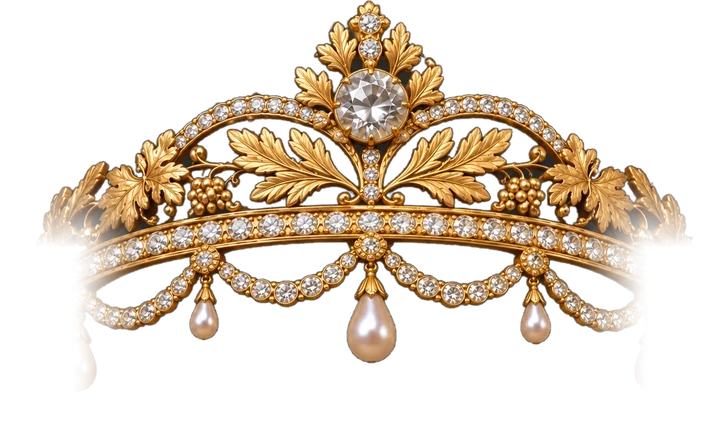
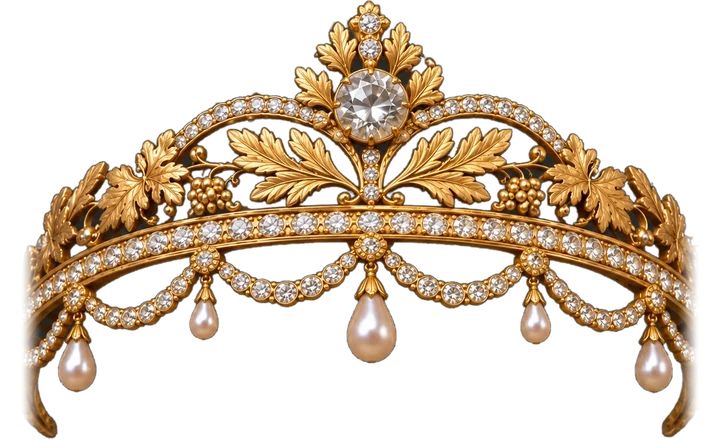
Grotte Napoléon : le diadème de Joséphine moins caché par les cheveux
Claude-Session: https://claude.ai/code/session_01Tg9JuPFfiTJrQ2axzwAjp1

Changed region(s): [[0.7944, 0.4146, 0.9778, 1.0], [0.0306, 0.4146, 0.1833, 1.0]]

diff --git a/clients/la-grotte-napoleon/reserver.html b/clients/la-grotte-napoleon/reserver.html
@@ -8,7 +8,7 @@
 <meta name="robots" content="noindex">
 <meta name="theme-color" content="#161411">
 <link rel="icon" href="images/couronne.png">
-<link rel="stylesheet" href="grotte.css?v=20261102v">
+<link rel="stylesheet" href="grotte.css?v=20261102w">
 </head>
 <body class="btq resa-ouv" data-titre="meta-reserver">
 <div class="maquette" data-t="bandeau">Maquette préparée par Saitora pour La Grotte Napoléon : à valider ensemble avant la mise en ligne.</div>
@@ -59,7 +59,7 @@
           <div class="actions" id="boutonsOuv" style="--i:1"><a class="btn lg" href="#resa" data-t="rj-choisir">Choisir sa séance</a></div>
         </div>
       </div>
-      <div class="portrait josephine"><img src="images/josephine.webp" alt="L’impératrice Joséphine en habit du sacre" width="1145" height="1374" fetchpriority="high" data-t-alt="rj-alt"><img class="bicorne arriere" src="images/diademe-arriere.webp" alt="" width="720" height="439"><img class="ombre-chapeau" id="ombreChapeau" src="images/diademe-ombre.webp" alt="" width="325" height="204"><img class="bicorne" id="bicorne" src="images/diademe-avant.webp" alt="" width="720" height="439"></div>
+      <div class="portrait josephine"><img src="images/josephine.webp" alt="L’impératrice Joséphine en habit du sacre" width="1145" height="1374" fetchpriority="high" data-t-alt="rj-alt"><img class="bicorne arriere" src="images/diademe-arriere.webp" alt="" width="720" height="439"><img class="ombre-chapeau" id="ombreChapeau" src="images/diademe-ombre.webp" alt="" width="347" height="232"><img class="bicorne" id="bicorne" src="images/diademe-avant.webp" alt="" width="720" height="439"></div>
     </div>
   </section>
   <!-- la réservation en quatre étapes numérotées ; à côté, le billet sur parchemin se remplit à mesure (sur téléphone : après le formulaire, avec une barre du total en bas) -->
@@ -106,7 +106,7 @@
   <a href="./#venir" data-t="barre-plan">Plan</a>
 </div>
 
-<script src="textes.js?v=20261102v"></script>
-<script src="grotte.js?v=20261102v"></script>
+<script src="textes.js?v=20261102w"></script>
+<script src="grotte.js?v=20261102w"></script>
 </body>
 </html>

diff --git a/clients/la-grotte-napoleon/grotte.css b/clients/la-grotte-napoleon/grotte.css
@@ -499,7 +499,7 @@ body[data-titre="meta-reserver"]{--barre:0px}
 .portrait.josephine>img:first-child{position:relative;z-index:1}
 .portrait.josephine .bicorne{left:35.459%;top:8.37%;width:31.004%;z-index:3;transform-origin:50% 60%;filter:drop-shadow(0 5px 7px rgba(0,0,0,.35))}
 .portrait.josephine .bicorne.arriere{z-index:0;filter:none}
-.portrait.josephine .ombre-chapeau{z-index:2;left:36.681%;top:8.224%;width:28.384%;height:auto;border-radius:0;background:none}
+.portrait.josephine .ombre-chapeau{z-index:2;left:35.808%;top:8.224%;width:30.306%;height:auto;border-radius:0;background:none}
 .resa-ouv .page.resa{scroll-margin-top:80px}
 /* sur téléphone, la barre du total reste cachée tant que Joséphine occupe l'écran : elle ne couvre ni la phrase ni le bouton */
 .resa-barre{transition:transform .45s var(--doux)}

diff --git a/clients/la-grotte-napoleon/produit.html b/clients/la-grotte-napoleon/produit.html
@@ -8,7 +8,7 @@
 <meta name="robots" content="noindex">
 <meta name="theme-color" content="#161411">
 <link rel="icon" href="images/couronne.png">
-<link rel="stylesheet" href="grotte.css?v=20261102v">
+<link rel="stylesheet" href="grotte.css?v=20261102w">
 </head>
 <body data-titre="meta-produit">
 <div class="maquette" data-t="bandeau">Maquette préparée par Saitora pour La Grotte Napoléon : à valider ensemble avant la mise en ligne.</div>
@@ -89,8 +89,8 @@
   <a href="./#venir" data-t="barre-plan">Plan</a>
 </div>
 
-<script src="produits.js?v=20261102v"></script>
-<script src="textes.js?v=20261102v"></script>
-<script src="grotte.js?v=20261102v"></script>
+<script src="produits.js?v=20261102w"></script>
+<script src="textes.js?v=20261102w"></script>
+<script src="grotte.js?v=20261102w"></script>
 </body>
 </html>

diff --git a/clients/la-grotte-napoleon/panier.html b/clients/la-grotte-napoleon/panier.html
@@ -8,7 +8,7 @@
 <meta name="robots" content="noindex">
 <meta name="theme-color" content="#161411">
 <link rel="icon" href="images/couronne.png">
-<link rel="stylesheet" href="grotte.css?v=20261102v">
+<link rel="stylesheet" href="grotte.css?v=20261102w">
 </head>
 <body data-titre="meta-panier">
 <div class="maquette" data-t="bandeau">Maquette préparée par Saitora pour La Grotte Napoléon : à valider ensemble avant la mise en ligne.</div>
@@ -79,8 +79,8 @@
   <a href="./#venir" data-t="barre-plan">Plan</a>
 </div>
 
-<script src="produits.js?v=20261102v"></script>
-<script src="textes.js?v=20261102v"></script>
-<script src="grotte.js?v=20261102v"></script>
+<script src="produits.js?v=20261102w"></script>
+<script src="textes.js?v=20261102w"></script>
+<script src="grotte.js?v=20261102w"></script>
 </body>
 </html>

diff --git a/clients/la-grotte-napoleon/boutique.html b/clients/la-grotte-napoleon/boutique.html
@@ -8,7 +8,7 @@
 <meta name="robots" content="noindex">
 <meta name="theme-color" content="#161411">
 <link rel="icon" href="images/couronne.png">
-<link rel="stylesheet" href="grotte.css?v=20261102v">
+<link rel="stylesheet" href="grotte.css?v=20261102w">
 </head>
 <body class="btq" data-titre="meta-boutique">
 <div class="maquette" data-t="bandeau">Maquette préparée par Saitora pour La Grotte Napoléon : à valider ensemble avant la mise en ligne.</div>
@@ -270,8 +270,8 @@
 </div>
 
 
-<script src="produits.js?v=20261102v"></script>
-<script src="textes.js?v=20261102v"></script>
-<script src="grotte.js?v=20261102v"></script>
+<script src="produits.js?v=20261102w"></script>
+<script src="textes.js?v=20261102w"></script>
+<script src="grotte.js?v=20261102w"></script>
 </body>
 </html>

diff --git a/clients/la-grotte-napoleon/formules.html b/clients/la-grotte-napoleon/formules.html
@@ -8,7 +8,7 @@
 <meta name="robots" content="noindex">
 <meta name="theme-color" content="#161411">
 <link rel="icon" href="images/couronne.png">
-<link rel="stylesheet" href="grotte.css?v=20261102v">
+<link rel="stylesheet" href="grotte.css?v=20261102w">
 </head>
 <body data-titre="meta-formules">
 <div class="maquette" data-t="bandeau">Maquette préparée par Saitora pour La Grotte Napoléon : à valider ensemble avant la mise en ligne.</div>
@@ -146,7 +146,7 @@
 </div>
 
 
-<script src="textes.js?v=20261102v"></script>
-<script src="grotte.js?v=20261102v"></script>
+<script src="textes.js?v=20261102w"></script>
+<script src="grotte.js?v=20261102w"></script>
 </body>
 </html>

diff --git a/clients/la-grotte-napoleon/index.html b/clients/la-grotte-napoleon/index.html
@@ -8,7 +8,7 @@
 <meta name="robots" content="noindex">
 <meta name="theme-color" content="#161411">
 <link rel="icon" href="images/couronne.png">
-<link rel="stylesheet" href="grotte.css?v=20261102v">
+<link rel="stylesheet" href="grotte.css?v=20261102w">
 </head>
 <body data-titre="meta-titre">
 <div class="maquette" data-t="bandeau">Maquette préparée par Saitora pour La Grotte Napoléon : à valider ensemble avant la mise en ligne.</div>
@@ -204,7 +204,7 @@
 </div>
 
 
-<script src="textes.js?v=20261102v"></script>
-<script src="grotte.js?v=20261102v"></script>
+<script src="textes.js?v=20261102w"></script>
+<script src="grotte.js?v=20261102w"></script>
 </body>
 </html>

diff --git a/clients/la-grotte-napoleon/NOTES.md b/clients/la-grotte-napoleon/NOTES.md
@@ -89,3 +89,4 @@ Tout ce qui a été fait, décidé ou refusé sur ce site (repris de `ETAT.md` l
 - **Joséphine couronnée en ouverture de la page Réserver (2 novembre 2026, idée de l’utilisateur)** : même ouverture que la boutique (`<section class="chapeau">`, corps `class="btq resa-ouv"`). Joséphine en habit du sacre (`images/josephine.webp`, faite par l’utilisateur avec ChatGPT dans le style des Napoléon du site) ; la couronne d’impératrice (`images/couronne-josephine.webp` : 4 arches, globe et croix, diamants, perles en poire ; une première version mate a été jugée « toute fade ») tombe en se balançant et se pose dans la coiffure (même animation que la couronne de laurier : `grotte.js` reconnaît `.portrait.sacre, .portrait.josephine`). Première version refusée (« juste un jpg sur un jpg ») : la couronne est maintenant en trois couches qui bougent ensemble : la couronne entière derrière le portrait (`couronne-josephine-arriere.webp` : le cercle du fond passe derrière le front, les bouts du bandeau derrière les tempes, le chignon sort entre les arches), l’ombre qu’elle pose sur les cheveux (`couronne-josephine-ombre.webp`, apparaît à l’arrivée), puis l’avant seul (`couronne-josephine-avant.webp` : bandeau, arches, perles, sans le cercle du fond ni les bouts). Titre « Une soirée / à la cour / de l’Empereur », phrase sur le 2 décembre 1804 (Napoléon couronne lui-même Joséphine) et bouton « Choisir sa séance » qui descend au formulaire (`#resa`) ; clés `rj-*` dans les six langues. Le titre de la réservation devient un `h2`. Sur téléphone, la barre du total reste cachée tant que Joséphine occupe l’écran. Idée restée en suspens : refaire tomber la couronne sur le billet quand la réservation est confirmée.
 - **Le diadème remplace la couronne (2 novembre 2026, avis de l’utilisateur : la couronne « mauvaise », même en trois couches)** : l’utilisateur a refait avec ChatGPT Joséphine tête nue (nouveau `images/josephine.webp`, coiffure un peu différente) et un diadème seul (or, fleuron au grand diamant, laurier et vigne, festons de diamants, perles en poire). Même principe que le laurier sur Napoléon : `diademe-arriere.webp` (le diadème entier) derrière le portrait, ses deux bouts passent derrière les cheveux sur les côtés ; `diademe-ombre.webp` sur les boucles à l’arrivée ; `diademe-avant.webp` (sans les bouts) devant. Réglages dans `.portrait.josephine .bicorne` (`grotte.css`). Les fichiers `couronne-josephine-*` sont supprimés (restent dans git).
 - **Plus de rebond (2 novembre 2026, demande de l’utilisateur)** : le bicorne (accueil), le laurier (boutique) et le diadème (Réserver) ne rebondissent plus en se posant et le bicorne ne se tasse plus ; le balancement et l’inclinaison s’éteignent en douceur juste avant l’arrivée (`dessine()` dans `grotte.js`).
+- **Diadème moins caché (2 novembre 2026, avis : « les cheveux mangent trop le diadème »)** : seuls les tout derniers bouts passent derrière les cheveux ; les perles des côtés et la fin du bandeau se voient (`diademe-avant.webp` et l’ombre refaits).
